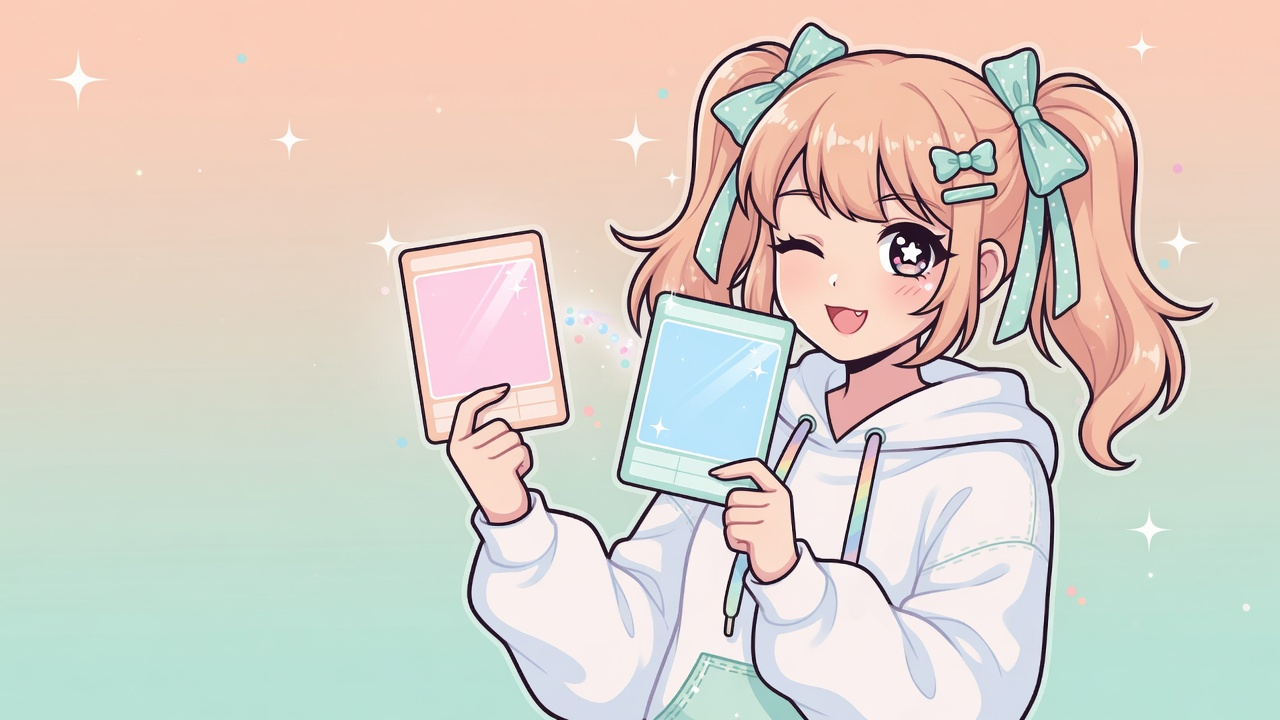
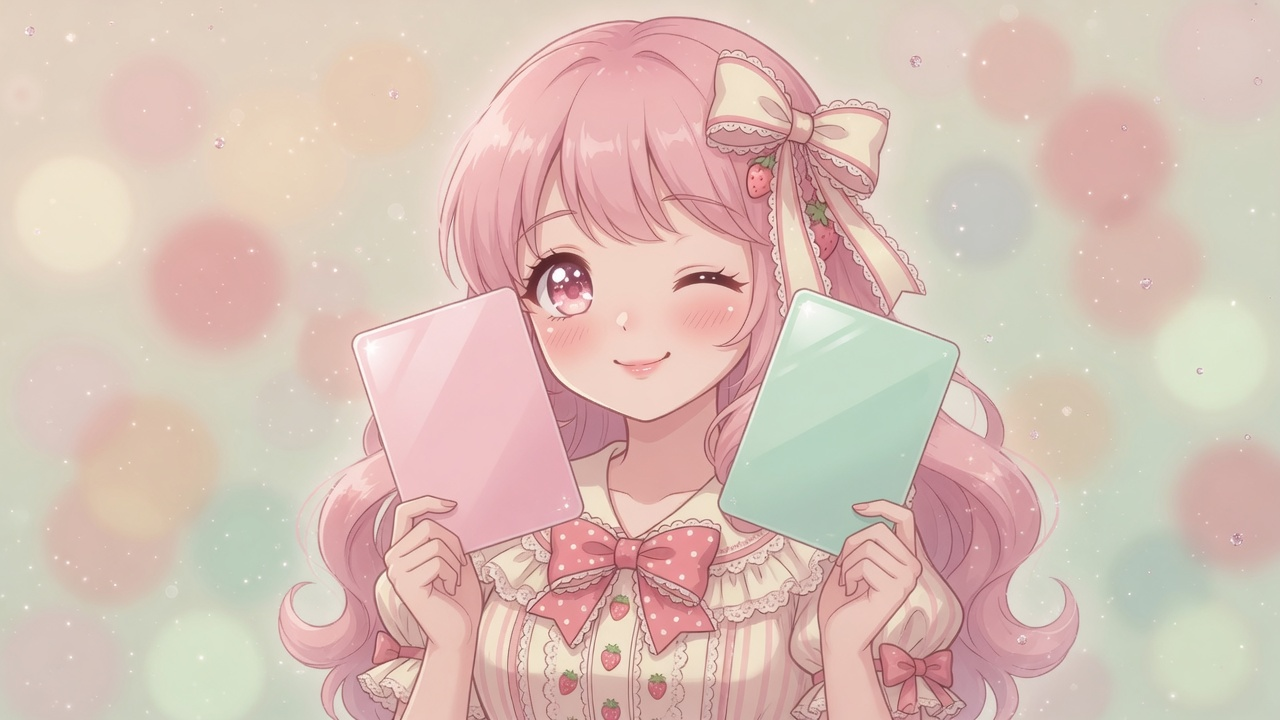
feat: sweet Japanese moe girl covers on cv.cm tools
Replace tool covers with a consistent 甜妹 / moe illustration style so each tool card shows the same cute girl in a matching pose.

diff --git a/src/client/covers.ts b/src/client/covers.ts
@@ -1,8 +1,8 @@
 import type { ToolId } from "../shared/path";
 
 export const COVER: Record<ToolId, string> = {
-  watermark: "/covers/watermark.jpg",
-  collage: "/covers/collage.jpg",
-  convert: "/covers/convert.jpg",
-  "image-pdf": "/covers/image-pdf.jpg",
+  watermark: "/covers/watermark.jpg?v=2",
+  collage: "/covers/collage.jpg?v=2",
+  convert: "/covers/convert.jpg?v=2",
+  "image-pdf": "/covers/image-pdf.jpg?v=2",
 };
